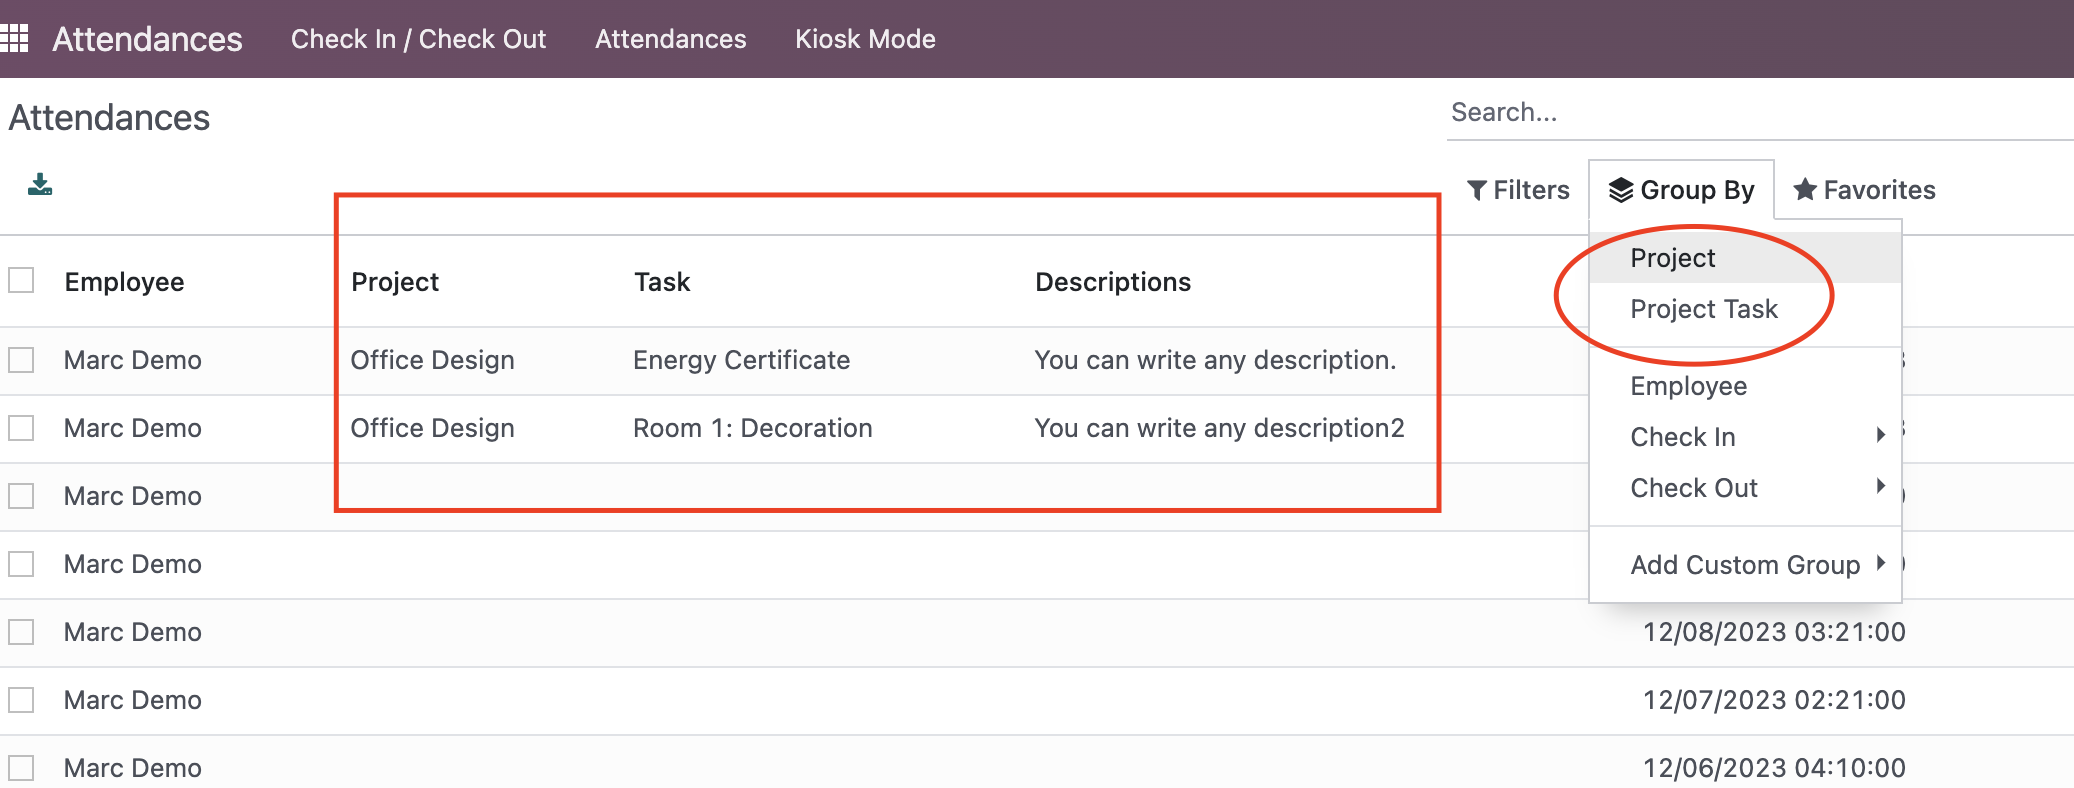
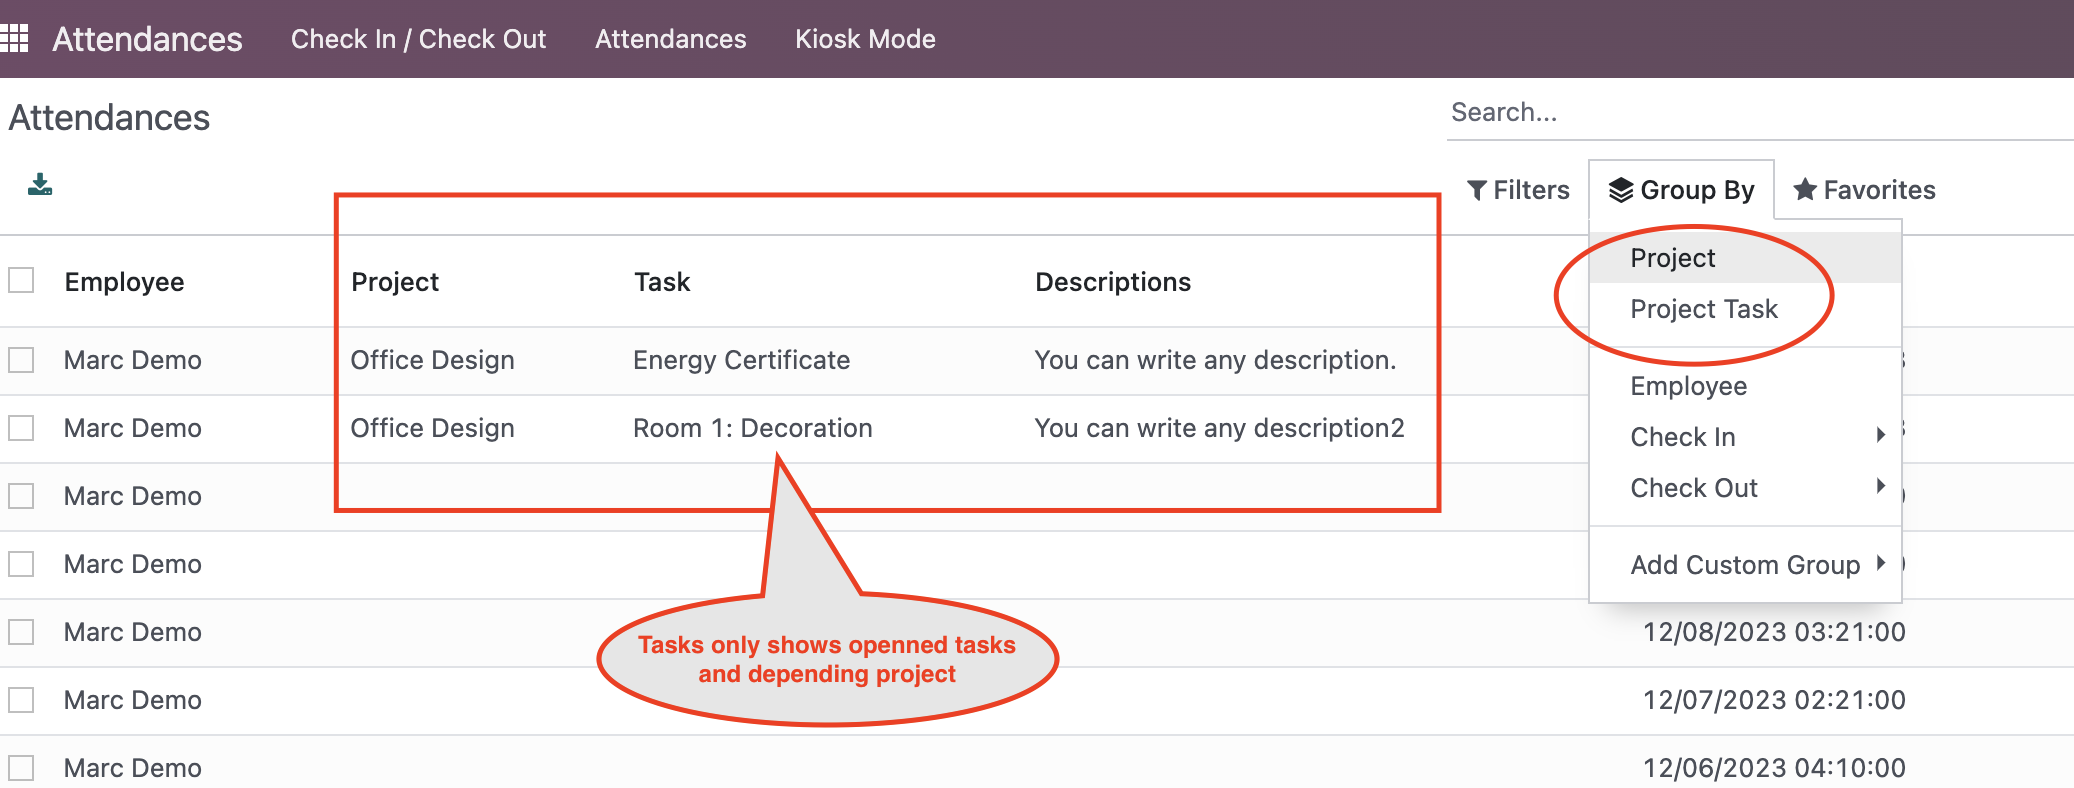
Update module descriptions.

Changed region(s): [[0.2777, 0.5787, 0.5246, 0.9442]]

diff --git a/bayarApexive/static/description/index.html b/bayarApexive/static/description/index.html
@@ -34,7 +34,7 @@
             <img style="width: 100%;border: 1px solid #BDBDBD; margin-bottom: 16px; margin-top: 16px;" src="images/ss1.png">
 </section>
 <section class="oe_container">
-            <h3 class="oe_slogan">Select a Project Task: It shows only above Projects Task</h3>
+            <h3 class="oe_slogan">Select a Project Task: It shows only above Projects Task. Also, Tasks shows only openned task.</h3>
             <img style="width: 100%;border: 1px solid #BDBDBD; margin-bottom: 16px; margin-top: 16px;" src="images/ss2.png">
 </section>
 

diff --git a/bayarApexive/README.md b/bayarApexive/README.md
@@ -1,4 +1,4 @@
-# Bayar Modification of Attendance Module in Odoo for Apexive
+# Bayar Modification of Attendance Module in Odoo 16 for Apexive
 # Code structure
 # 1. This is main code structure
 ![ss_code1.png](static/description/images/ss_code1.png)
@@ -14,3 +14,6 @@
 ![ss_code6.png](static/description/images/ss_code6.png)
 # 6. Just only one function overrided!!. I tried many times without overriding. But it was impossible.
 ![ss_code7.png](static/description/images/ss_code7.png)
+# 7. You can see all features from Modules description
+![ss_code8.png](static/description/images/ss_code8.png)
+![ss_code9.png](static/description/images/ss_code9.png)
